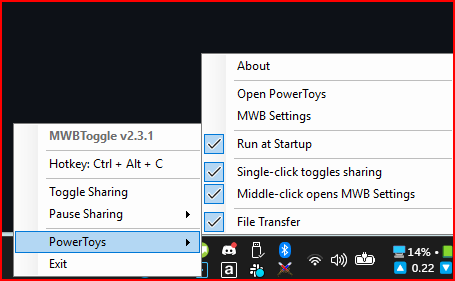
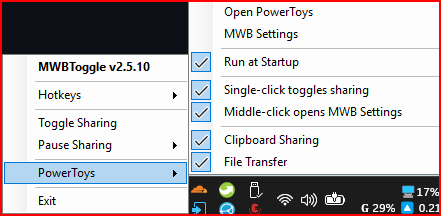
docs(readme): refresh screenshots, add About dialog
- Replace mwbiconoff.png and mwbmenu.png with v2.5.10-era captures
- Add mwbsettings.png (About dialog with dual-hotkey config)
- Extend screenshot grid to 4 columns

diff --git a/README.md b/README.md
@@ -24,9 +24,9 @@ A lightweight system tray companion for [PowerToys Mouse Without Borders](https:
 
 ## Screenshots
 
-| Sharing ON | Sharing OFF | Tray Menu |
-|:---:|:---:|:---:|
-| ![ON](screenshots/mwbiconon.png) | ![OFF](screenshots/mwbiconoff.png) | ![Menu](screenshots/mwbmenu.png) |
+| Sharing ON | Sharing OFF | Tray Menu | About |
+|:---:|:---:|:---:|:---:|
+| ![ON](screenshots/mwbiconon.png) | ![OFF](screenshots/mwbiconoff.png) | ![Menu](screenshots/mwbmenu.png) | ![About](screenshots/mwbsettings.png) |
 
 ## Requirements
 
